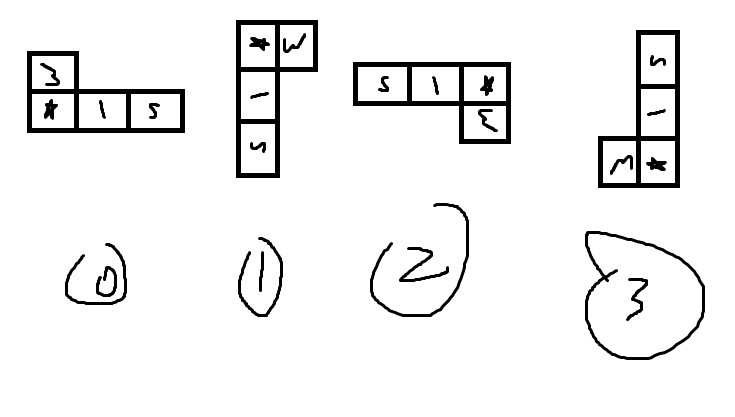
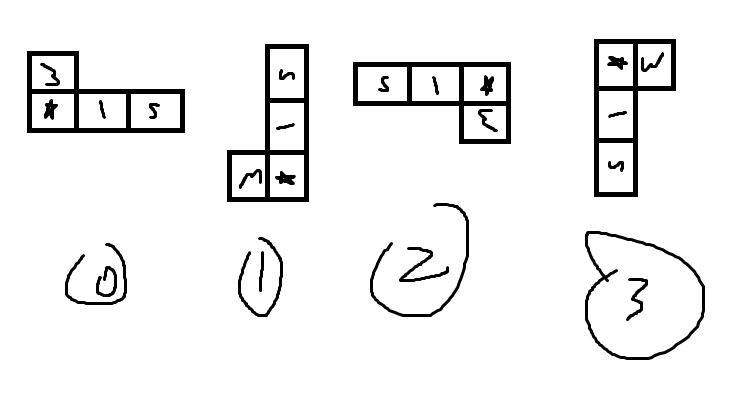
[190722] 소스코드 오타 수정. 블록 회전 버그 수정. J블록 반대로 회전하는 현상 수정. 게임 룰 구현 예정.

Changed region(s): [[0.2993, 0.0312, 0.449, 0.4988], [0.8082, 0.0624, 0.9279, 0.4988]]

diff --git a/Textris/Textris.cpp b/Textris/Textris.cpp
@@ -49,22 +49,17 @@ wstring g_wstrMainMenu[MAX_LINE] = {		//메인메뉴에 출력될 문자열
 /*24*/		L"",
 /*25*/		L""
 };
-////////////////////////////////////////////////////////////////////////////////////////////////////////////////////////////////////////////////////////////
 
 //초기화
 void InitializeSgGm()
 {
-	//출력버퍼 초기화
+	//출력버퍼 2개 초기화
 	g_Renderer.ResetBuffer();
 	g_Renderer.Rendering();
 	g_Renderer.ResetBuffer();
 
 	wstring* pwstrUI = g_GameBoard.GetUI();
-
-	g_GameBoard.BlockDown(1);
 	g_Renderer.UpdateBuffer(pwstrUI, g_GameBoard.MAX_UI_LINE);
-	g_Renderer.UpdateBuffer(pwstrUI, g_GameBoard.MAX_UI_LINE, 26);
-	g_Renderer.UpdateBuffer(pwstrUI, g_GameBoard.MAX_UI_LINE, 52);
 	g_Renderer.Rendering();
 }
 
@@ -90,7 +85,6 @@ wstring* ReplaceFirstString(wstring* str, const wstring &from, const wstring &to
 	}
 	return str;
 }
-
 
 //메인 화면 출력
 unsigned char MainMenuPrint(const char cMoveDirect)
@@ -159,16 +153,6 @@ int main()
 				break;
 			case Input::DOWN:
 				ucSelected = MainMenuPrint(1);
-				break;
-			case Input::RIGHT:
-				g_GameBoard.BlockHorMove(1);
-				g_Renderer.UpdateBuffer(g_GameBoard.GetUI(), g_GameBoard.MAX_UI_LINE);
-				g_Renderer.Rendering();
-				break;
-			case Input::LEFT:
-				g_GameBoard.BlockHorMove(-1);
-				g_Renderer.UpdateBuffer(g_GameBoard.GetUI(), g_GameBoard.MAX_UI_LINE);
-				g_Renderer.Rendering();
 				break;
 			case Input::SPACE:
 			case Input::ENTER:

diff --git a/Textris/Blocks.h b/Textris/Blocks.h
@@ -10,11 +10,11 @@ private:
 		short Y;
 	};
 
-	short sRotateCnt;
+	short mv_sRotateCnt;
 
 public:
 	enum BlockType { I, O, T, L, J, Z, S };
-	BlockType type;
+	BlockType nBlockType;
 	Position posMainBlk;
 	Position posSubBlk1;
 	Position posSubBlk2;

diff --git a/Textris/pch.h b/Textris/pch.h
@@ -3,7 +3,9 @@
 
 // TODO: 여기에 미리 컴파일하려는 헤더 추가
 //#include "Time.h"
+#include <Windows.h>
 #include <locale>
+#include <conio.h>
 #include "Input.h"
 #include "GameBoard.h"
 #include "Renderer.h"

diff --git a/Textris/GameBoard.h b/Textris/GameBoard.h
@@ -38,7 +38,7 @@ public:
 	std::wstring* GetUI();
 	void BlockRotate();
 	void BlockHorMove(short sDirection);
-	void BlockDown(int a);
+	void BlockDown();
 	void DropBlock();
 };
 

diff --git a/Textris/Renderer.h b/Textris/Renderer.h
@@ -1,6 +1,5 @@
 #ifndef _RENDERER_CLASS
 #define _RENDERER_CLASS
-#include <Windows.h>
 
 class Renderer
 {

diff --git a/Textris/Input.h b/Textris/Input.h
@@ -1,6 +1,5 @@
 #ifndef _INPUT_CLASS
 #define _INPUT_CLASS
-#include <conio.h>
 
 class Input
 {
